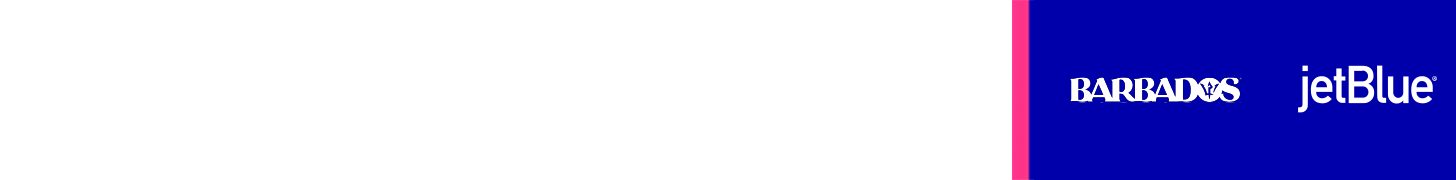
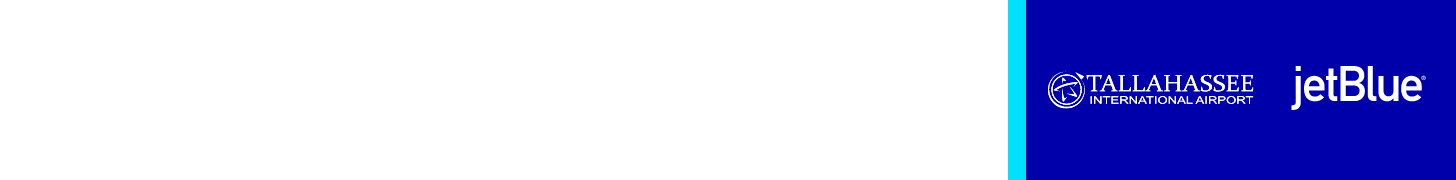
route 1 updated

Changed region(s): [[0.6799, 0.0, 0.989, 1.0]]

diff --git a/tallahassee_dynamic_banners/tallahassee_dynamic_banners_route1/richLoads/CA_Vacation_R2_728x90_RL1/index.html b/tallahassee_dynamic_banners/tallahassee_dynamic_banners_route1/richLoads/CA_Vacation_R2_728x90_RL1/index.html
@@ -37,9 +37,9 @@
         <img src="./images/bottomPanel.png" id="bottomPanel" class="retina" />
 
         <div id="text_holder">
-            <div id="h1" class="hidden">Take a dip in the waters...</span></div>
-            <div id="h2" class="hidden">and dive into a new world of cuisine.</div>
-          <div id="termsCopyrightHolder"><div id="termsCopyright" class="terms">&copy; 2023 JetBlue Airways Corporation. All rights reserved.</div>
+            <div id="h1" class="hidden">The most legroom in coach* at a low fare?</div>
+            <div id="h2" class="hidden">You have to<br>Tallahassee it to believe it.</div>
+          <div id="termsCopyrightHolder"><div id="termsCopyright" class="terms">&copy; 2024 JetBlue Airways Corporation. All rights reserved.</div>
 <!--           <div id="logoHolder">
             <img id="logo" src="./images/logo.svg" class="" />
             <div id="partner_logo_container">

diff --git a/tallahassee_dynamic_banners/tallahassee_dynamic_banners_route1/richLoads/CA_Vacation_R2_300x600_RL1/index.html b/tallahassee_dynamic_banners/tallahassee_dynamic_banners_route1/richLoads/CA_Vacation_R2_300x600_RL1/index.html
@@ -40,7 +40,7 @@
         <div id="text_holder">
             <div id="h1" class="hidden">The most<br>legroom in<br>coach* at<br>a low fare?</div>
             <div id="h2" class="hidden">You have to<br>Tallahassee<br>it to believe it.</div>
-            <div id="terms1" class="terms activeterms"><span class="asterisk">&ast;</span>Based on the avg. fleet wide<br>seat pitch of US airlines.</div>
+            <div id="terms1" class="terms activeterms"><span class="asterisk">&ast;</span>Based on the avg. fleet wide seat pitch of US airlines.</div>
           <div id="termsCopyright" class="terms">&copy; 2024 JetBlue Airways Corporation. All rights reserved.</div>
 <!--           <div id="logoHolder">
             <img id="logo" src="./images/logo.svg" class="" />

diff --git a/tallahassee_dynamic_banners/tallahassee_dynamic_banners_route1/richLoads/CA_Vacation_R2_728x90_RL2/mainRL2.js b/tallahassee_dynamic_banners/tallahassee_dynamic_banners_route1/richLoads/CA_Vacation_R2_728x90_RL2/mainRL2.js
@@ -82,7 +82,7 @@ function setupContent() {
     h4[0].innerHTML = ""; // - Populates main headline
 
  h4[0].innerHTML +=
- "<span class='sm blue'>Nonstop flights from </span><br><span class='blue city'>" + "NYC" + "</span> <span class='blue to'>to</span> <span class='blue city'>" + "Barbados" + "</span>";
+ "<span class='sm blue'>Daily nonstop flights from  </span><br><span class='blue city'>" + "FLL" + "</span> <span class='blue to'>to</span> <span class='blue city'>" + "TLH" + "</span>";
 
    //   h4[0].innerHTML +=
    // "<span class='sm blue'>Nonstop flights from </span><br><span class='blue city'>" + origin_formatted + "</span> <span class='blue to'>to</span><br><span class='blue city'>" + destination_formatted + "</span>";

diff --git a/tallahassee_dynamic_banners/tallahassee_dynamic_banners_route1/richLoads/CA_Vacation_R2_728x90_RL2/index.html b/tallahassee_dynamic_banners/tallahassee_dynamic_banners_route1/richLoads/CA_Vacation_R2_728x90_RL2/index.html
@@ -18,7 +18,7 @@
 
       <div id="main_content" class="hidden">
 
-        <img src="./images/bgPanel.png" id="bgPanel" class="" />
+        <img src="./images/bgPanel.png" id="bgPanel" class="retina" />
 
         <div id="text_holder">
           <div id="headline">

diff --git a/tallahassee_dynamic_banners/tallahassee_dynamic_banners_route1/richLoads/CA_Vacation_R2_728x90_RL1/stylesRL1.css b/tallahassee_dynamic_banners/tallahassee_dynamic_banners_route1/richLoads/CA_Vacation_R2_728x90_RL1/stylesRL1.css
@@ -111,10 +111,13 @@ video {
   width: 728px;
   height: 74px;
   left: 21px;
-  top: 32px;
+  top: 53px;
 /*  text-shadow: 0px 0px 1.5px #000;  */
 }
-
+#h2{
+  top: 28px;
+  line-height: 23px;
+}
 #h2 .asterisk{
   font-size: 11px;
   line-height: 10px;

diff --git a/tallahassee_dynamic_banners/tallahassee_dynamic_banners_route1/richLoads/CA_Vacation_R2_160x600_RL1/stylesRL1.css b/tallahassee_dynamic_banners/tallahassee_dynamic_banners_route1/richLoads/CA_Vacation_R2_160x600_RL1/stylesRL1.css
@@ -89,7 +89,7 @@ video {
   font-family: "ESKlarheitGrotesk Xbd";
   font-size: 20px;
   letter-spacing: -0.414px;
-  line-height: 26px;
+  line-height: 20px;
 }
 
 #blueBottomCard {

diff --git a/tallahassee_dynamic_banners/tallahassee_dynamic_banners_route1/base/CA_Vacation_R2_baseload_728x90/index.html b/tallahassee_dynamic_banners/tallahassee_dynamic_banners_route1/base/CA_Vacation_R2_baseload_728x90/index.html
@@ -71,7 +71,7 @@
 </head>
 <body>
     
- 	
+	<div id="border"></div>
     <div id="RL1_holder">
     	<ft-richload name="RL1" id="RL1_div"></ft-richload>
     </div>
